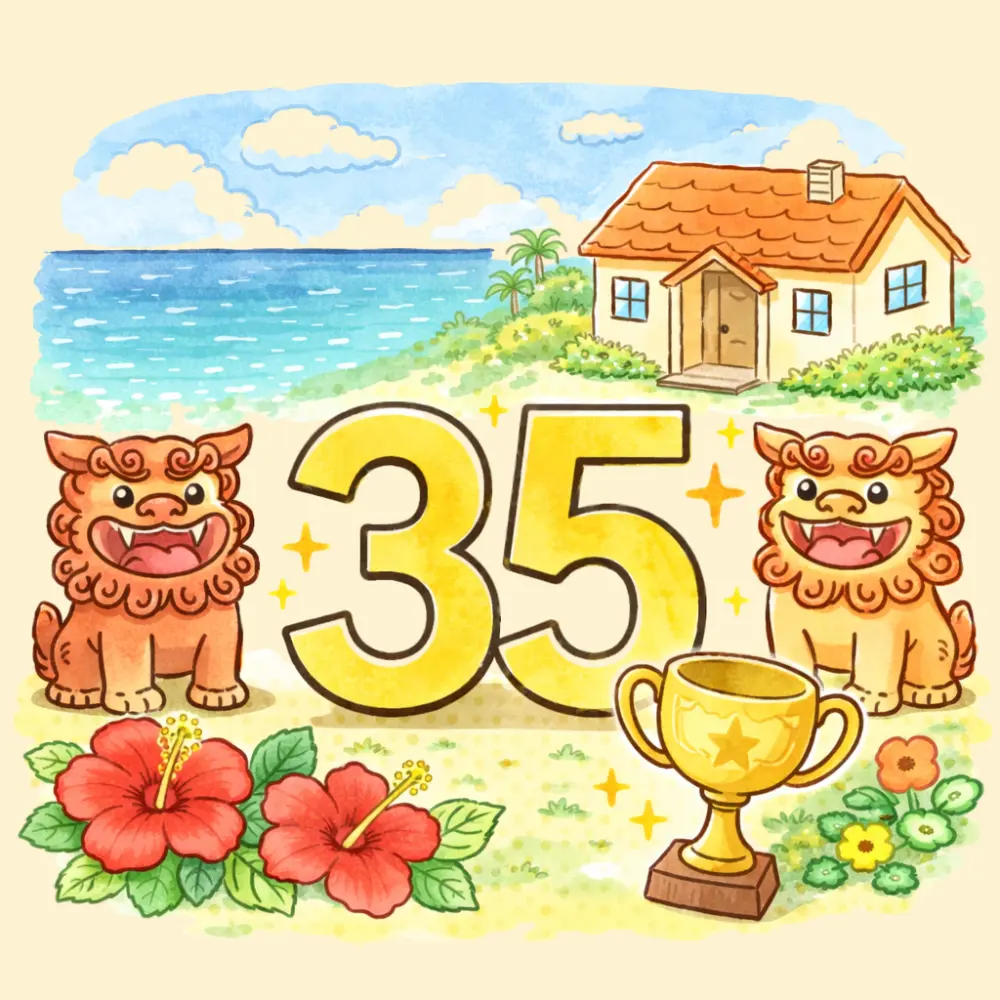
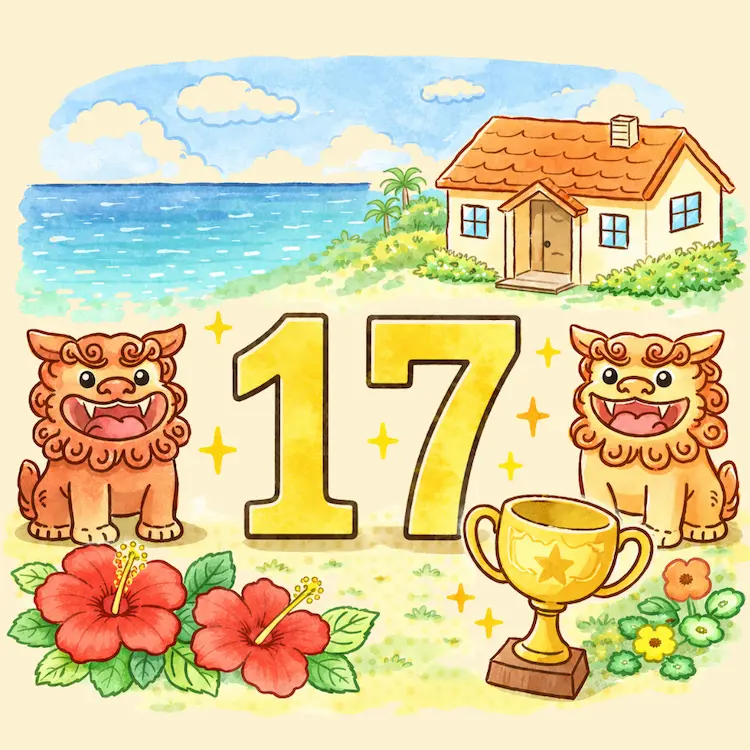
17年に変更

diff --git a/index.html b/index.html
@@ -45,7 +45,7 @@
 
       <div class="hero-inner">
         <div class="hero-text">
-          <p class="sub-copy">沖縄生まれ、設立35年目の信頼と安心の実績</p>
+          <p class="sub-copy">沖縄生まれ、設立17年目の信頼と安心の実績</p>
           <h2 class="main-copy">
             リースバックは<br>
             安心の<span>ガーデン</span>に<br>
@@ -154,8 +154,8 @@
             <div class="point-num">03</div>
             <img src="point3.webp" alt="" class="point-img"
                  onerror="this.src='https://placehold.co/200x200/FDF3D2/4A4A4A?text=Point+3';this.onerror=null;">
-            <h3 class="point-title">35年の信頼と実績</h3>
-            <p class="point-text">沖縄生まれ、設立35年目の信頼と安心の実績でお応えします。</p>
+            <h3 class="point-title">17年の信頼と実績</h3>
+            <p class="point-text">沖縄生まれ、設立17年目の信頼と安心の実績でお応えします。</p>
           </article>
         </div>
       </div>

diff --git a/css/1style.css b/css/1style.css
@@ -487,8 +487,9 @@ h1, h2, h3, h4,
 .faq-item .q { background: var(--color-logo-blue); }
 .faq-item .a { background: var(--color-accent); }
 .faq-answer {
-  padding: 0 60px 24px 70px;
+  padding: 16px 60px 24px 70px;
   position: relative;
+  min-height: 50px;
 }
 .faq-answer .a {
   top: 16px;
@@ -496,6 +497,7 @@ h1, h2, h3, h4,
 }
 .faq-answer p {
   padding-top: 4px;
+  margin: 0;
 }
 
 /* ---------- company ---------- */
